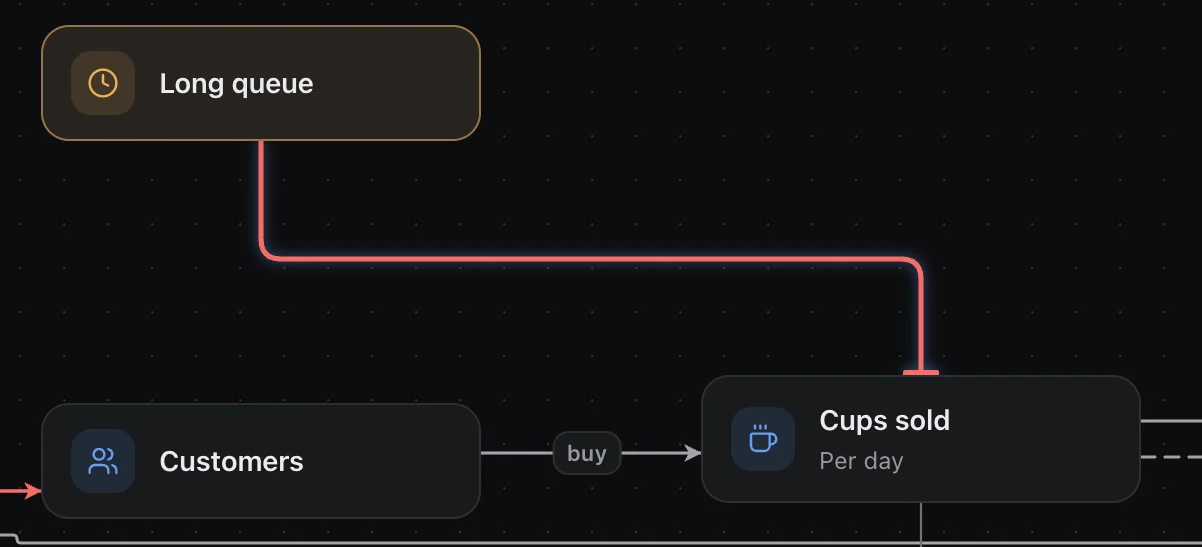
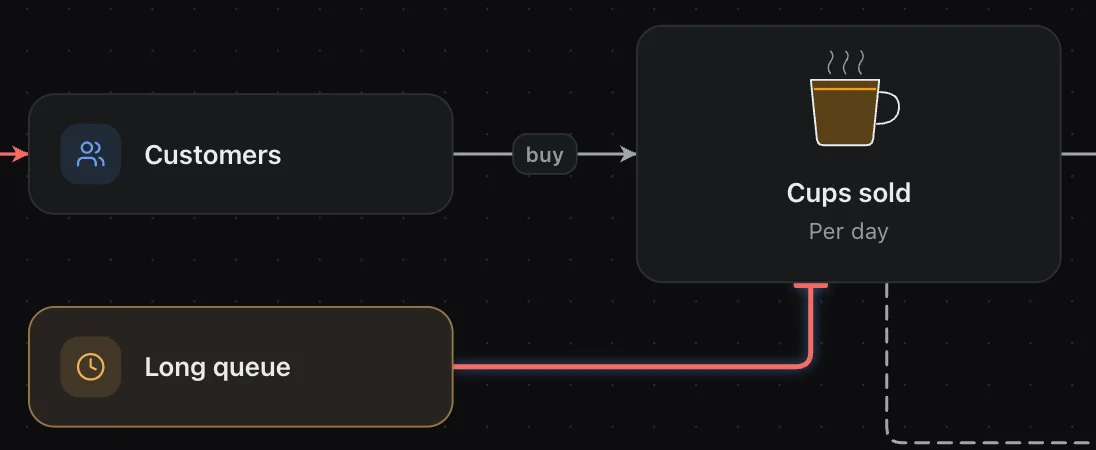
Site: product images from 0.2.0

diff --git a/site/site.config.ts b/site/site.config.ts
@@ -21,16 +21,16 @@ export const SHOTS = {
     dark: "/shots/app-dark.webp",
     width: 2880,
     height: 1800,
-    alt: "The Blueprint app showing a coffee shop's money map. The line from Long queue to Cups sold is selected, and the side panel explains it: a long queue stops some sales.",
-    // Phones: two crops of the same capture, stacked. Cards with the selected line, then the top of the side panel.
-    canvas: { light: "/shots/app-canvas-light.webp", dark: "/shots/app-canvas-dark.webp", width: 1202, height: 547 },
-    panel: { light: "/shots/app-panel-light.webp", dark: "/shots/app-panel-dark.webp", width: 678, height: 540 },
+    alt: "The Blueprint app showing a coffee shop's money map. The line from Long queue to Cups sold is selected, and the floating detail card explains it: a long queue stops some sales.",
+    // Phones: two crops of the same capture, stacked. Cards with the selected line, then the whole floating detail card.
+    canvas: { light: "/shots/app-canvas-light.webp", dark: "/shots/app-canvas-dark.webp", width: 1096, height: 450 },
+    panel: { light: "/shots/app-panel-light.webp", dark: "/shots/app-panel-dark.webp", width: 696, height: 382 },
   },
   map: {
     light: "/shots/map-light.webp",
     dark: "/shots/map-dark.webp",
     width: 1600,
-    height: 571,
+    height: 291,
     alt: "A map Blueprint drew of how a coffee shop makes money: cups sold times price equals revenue, revenue raises profit, costs lower it, and a long queue blocks sales.",
   },
   og: { src: "/og.png", width: 1200, height: 630, alt: "Blueprint: a canvas where your AI draws your systems, over a map of how a coffee shop makes money." },

diff --git a/site/components/kinds.tsx b/site/components/kinds.tsx
@@ -1,7 +1,7 @@
 import { EdgeLine, EdgeSwatch, type Kind } from "./edge-glyph";
 
 // The nine relationship kinds. Names and plain-words meanings are the app's own (app/src/lib/vocab.ts EDGE_INFO),
-// shown the way its detail panel shows them. Pick one to watch its line draw between two cards.
+// shown the way its floating detail card shows them. Pick one to watch its line draw between two cards.
 // Pattern adapted from 21st.dev "Feature List Showcase" (select an item, reveal its description).
 // Selection is wired by the inline script in components/behaviour.tsx; without JS the first kind stays shown.
 export const KINDS: [Kind, string][] = [
